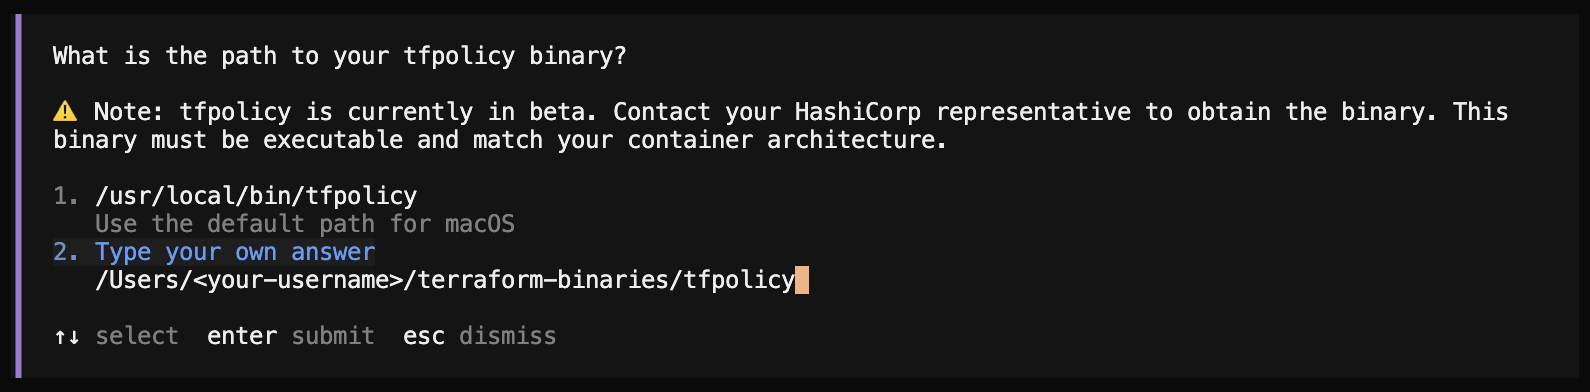
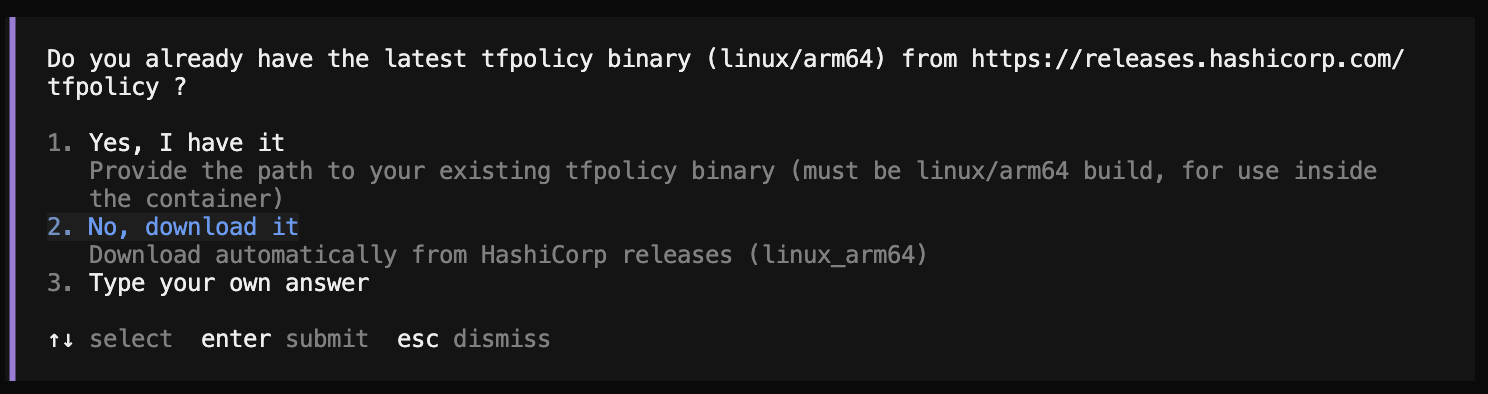
feat: address the UX review findings

Changed region(s): [[0.0, 0.0306, 0.9583, 0.9796]]

diff --git a/README.md b/README.md
@@ -129,7 +129,7 @@ cp .env.example .env
 
 Choose one of the following authentication providers:
 
-**Option A: GitHub Copilot**
+**Option A: GitHub Copilot (Default)**
 
 ```bash
 AUTH_PROVIDER=github-copilot
@@ -148,7 +148,7 @@ GITHUB_COPILOT_EXPIRES=0  # Optional, defaults to 0
 - `GITHUB_COPILOT_REFRESH_TOKEN`: (Optional) Refresh token, defaults to access token if not set
 - `GITHUB_COPILOT_EXPIRES`: (Optional) Token expiration timestamp, defaults to 0
 
-**Option B: LiteLLM (Default)**
+**Option B: LiteLLM**
 
 ```bash
 AUTH_PROVIDER=litellm
@@ -303,10 +303,17 @@ Before running the pipeline, verify all prerequisites are met:
 # Or check specific components
 # ("docker" here is the name of the container-engine check, not the CLI:
 #  keep it as "docker" even when DOCKER_CLI=podman)
+./pre-check.sh workdir   # Working directory path only
 ./pre-check.sh docker    # Container engine only
-./pre-check.sh mcp       # MCP server only
-./pre-check.sh binaries  # terraform/tfpolicy binaries only
 ./pre-check.sh env       # Environment variables only
+./pre-check.sh binaries  # terraform/tfpolicy binaries only
+./pre-check.sh input     # Input file only
+./pre-check.sh image     # Container image only
+./pre-check.sh mcp       # MCP server only
+./pre-check.sh output    # Output directory only
+./pre-check.sh local     # Local mode config only
+./pre-check.sh external  # External mode config only
+./pre-check.sh api       # API credentials only
 
 # JSON output for automation
 ./pre-check.sh --json
@@ -322,8 +329,33 @@ The pre-flight check will verify:
 - 🟢 **input**: Input files exist
 - 🟢 **image**: Container image is available
 - 🟢 **mcp**: MCP server is accessible at localhost:8500
+- 🟢 **output**: Output directory is empty (ready for pipeline)
+- 🟢 **local**: Local mode — `EXTERNAL_REPO_DIR` is not set, `INPUT_DIR`/`INPUT_FILE`/`OUTPUT_DIR` are present
+- 🟢 **external**: External mode — `EXTERNAL_REPO_DIR` is set and the directory exists
+- 🟢 **workdir**: Working directory path has no unsafe characters
+- 🟢 **api**: API credentials are valid (tested via lightweight ping)
 
 If any issues are found, the tool will provide clear error messages with 🔴 status and suggestions for fixing them.
+
+**Mode-based check behaviour** — When running `./pre-check.sh` (all checks), the fully ready state looks different depending on your mode. `local` and `external` are mutually exclusive: one will always show 🔴, which is **expected and should be ignored**:
+
+| Check    | Local mode           | External mode        |
+|----------|----------------------|----------------------|
+| docker   | ✅ pass              | ✅ pass              |
+| env      | ✅ pass              | ✅ pass              |
+| binaries | ✅ pass              | ✅ pass              |
+| input    | ✅ pass              | ✅ pass (or ⚠ warn) |
+| image    | ✅ pass              | ✅ pass              |
+| mcp      | ✅ pass              | ✅ pass              |
+| output   | ✅ pass              | ✅ pass              |
+| local    | ✅ pass              | 🔴 expected — ignore |
+| external | 🔴 expected — ignore | ✅ pass              |
+| workdir  | ✅ pass              | ✅ pass              |
+| api      | ✅ pass              | ✅ pass              |
+
+> **Local mode** (`EXTERNAL_REPO_DIR` not set): `external` shows 🔴 — this is expected, ignore it.
+
+> **External mode** (`EXTERNAL_REPO_DIR` set): `local` shows 🔴 — this is expected, ignore it.
 
 ### Primary Use Case: External Repository Integration
 
@@ -470,7 +502,7 @@ The pipeline runs 4 stages automatically. Each stage must complete before the ne
 | **Stage 2** | Generates policy files and tests for each requirement (runs in parallel) | `data/output/PolicyName/*.hcl`, `*.tf` |
 | **Stage 3** | Creates a consolidated summary report | `data/output/summary.md` |
 
-> **If the pipeline fails at Stage 0**, it is almost always an authentication issue. See [Troubleshooting](./TROUBLESHOOTING.md) for fixes.
+> **If the pipeline fails at Stage 0**, the most likely cause is an invalid or expired API key / token. First, run `./pre-check.sh api` to confirm whether your credentials are valid. If the check fails, re-acquire your tokens and update `.env`. See [Troubleshooting](./TROUBLESHOOTING.md) for fixes.
 
 ## Output Structure
 

diff --git a/USER_GUIDE.md b/USER_GUIDE.md
@@ -252,6 +252,12 @@ tfpac-run  tfpac-setup
 
 This section demonstrates the actual tfpac-setup Skill execution using OpenCode. Since this is an AI Agent, you may notice minor differences between the screenshots and your execution results, but the overall flow is expected to be the same.
 
+> **NOTE 1:** After each step, you will be prompted with **Proceed** or **Back** as shown in the screenshots below. Select **Back** if you want to return and make corrections. In most cases where no correction is needed, select **Proceed** to continue.
+
+![Proceed back](photo/setup/proceed_back.png)
+
+> **NOTE 2:** Intermediate results are saved to a file called `.env.tmp` as you progress through each step. At the end, the actual `.env` file used for execution is generated from it.
+
 ### Step 8: Execute the /skills command
 
 
@@ -270,6 +276,7 @@ Type `/skills` in your coding agent to view available skills.
 Choose `tfpac-setup` from the list of available skills to start the interactive environment setup wizard.
 
 > **Note:** `customize-opencode` may appear at the top of the skills list — ignore it. It is unrelated to this product.
+
 
 ### Step 10: Confirm tfpac-setup execution
 
@@ -297,13 +304,13 @@ Here, select "2. Local Mode" to use the `data/input` directory that you copied i
 
 ![Terraform Binary](photo/setup/(6)terraform_binary.png)
 
-Select **1. Yes** to have the wizard automatically download and configure the correct Terraform binary for your architecture.
+Select **2. No, download it** to have the wizard automatically download and configure the correct Terraform binary for your architecture.
 
 ### Step 14: Configure TFPolicy binary path
 
 ![TFPolicy Binary](photo/setup/(7)tfpolicy_binary.png)
 
-Select **1. Yes** to have the wizard automatically download and configure the correct TFPolicy binary for your architecture.
+Select **2. No, download it** to have the wizard automatically download and configure the correct TFPolicy binary for your architecture.
 
 ### Step 15: Select authentication provider
 
